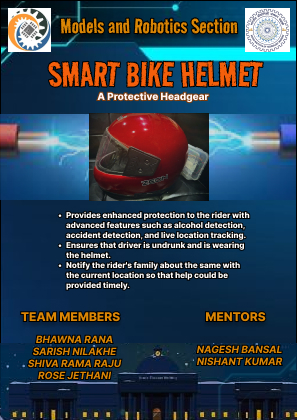
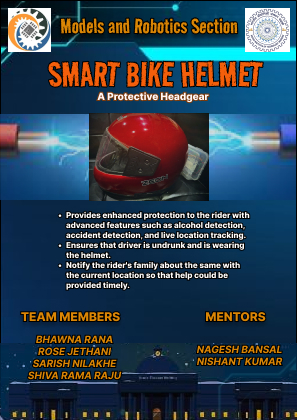
minor corrections

Changed region(s): [[0.0909, 0.8048, 0.4242, 0.9286]]

diff --git a/README.md b/README.md
@@ -216,9 +216,9 @@ Through this project we could learn the following :<br>
    <p>
  
  1. [Bhawna Rana](https://github.com/Bhawna-Rana)<br>
- 2. [Sarish Nilakhe](https://github.com/Shinchan9913)<br>
- 3. [Shiva Rama Raju](https://github.com/MSRRaju07)<br>
- 4. [Rose Jethani](https://github.com/rose2221)<br>
+ 2. [Rose Jethani](https://github.com/rose2221)
+ 3. [Sarish Nilakhe](https://github.com/Shinchan9913)<br>
+ 4. [Shiva Rama Raju](https://github.com/MSRRaju07)<br>
  
    </p>
 <br>
